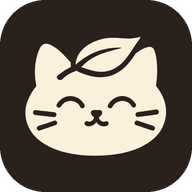
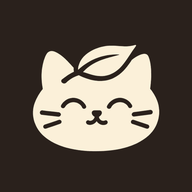
Chat en tiempo real, app instalable e ícono del gatito
- Canal en vivo (SSE) en /api/events: los mensajes, la bandeja y el
  contador se actualizan al instante, con aviso si estás en otra página
- El mensaje propio aparece de inmediato al enviarlo
- PWA: service worker, página sin conexión, accesos directos y aviso
  de instalación (Android e iPhone)
- Íconos con la cara del gatito a sangre completa en 120, 152, 167 y
  180 px para iOS, más 192, 512 y maskable para Android

Claude-Session: https://claude.ai/code/session_01Dpf6iEkBebjgidmTYjNqXF

diff --git a/client/src/pages/Messages.tsx b/client/src/pages/Messages.tsx
@@ -9,16 +9,36 @@ import { Avatar, Empty, Loading, useToast } from "@/components/ui";
 function Thread({ id }: { id: number }) {
   const toast = useToast();
   const utils = trpc.useUtils();
-  const q = trpc.chat.thread.useQuery({ id }, { refetchInterval: 5000, retry: false });
+  const q = trpc.chat.thread.useQuery({ id }, { refetchInterval: 45_000, retry: false });
   const [body, setBody] = useState("");
   const [offer, setOffer] = useState("");
   const [offering, setOffering] = useState(false);
   const end = useRef<HTMLDivElement>(null);
   const count = q.data?.messages.length ?? 0;
   useEffect(() => { end.current?.scrollIntoView({ block: "end" }); utils.auth.me.invalidate(); utils.chat.list.invalidate(); }, [count, id]);
+  // El mensaje aparece al instante; si el envío falla, se retira y vuelve al cuadro de texto
   const send = trpc.chat.send.useMutation({
-    onSuccess: () => { setBody(""); setOffer(""); setOffering(false); utils.chat.thread.invalidate({ id }); },
-    onError: (e) => toast(e.message, true),
+    onMutate: async (v) => {
+      await utils.chat.thread.cancel({ id });
+      const prev = utils.chat.thread.getData({ id });
+      if (prev) {
+        utils.chat.thread.setData({ id }, {
+          ...prev,
+          messages: [...prev.messages, {
+            id: -Date.now(), senderId: prev.me, body: v.body, offerCents: v.offer != null ? Math.round(v.offer * 100) : null, createdAt: new Date().toISOString(),
+            listingId: null, listingTitle: null, listingImages: null, listingPrice: null, listingDeal: null,
+          }],
+        });
+      }
+      setBody(""); setOffer(""); setOffering(false);
+      return { prev, text: v.body };
+    },
+    onError: (e, _v, ctx) => {
+      if (ctx?.prev) utils.chat.thread.setData({ id }, ctx.prev);
+      if (ctx) setBody(ctx.text);
+      toast(e.message, true);
+    },
+    onSettled: () => utils.chat.thread.invalidate({ id }),
   });
 
   if (q.isLoading) return <Loading />;
@@ -70,7 +90,7 @@ function Thread({ id }: { id: number }) {
           {!offering && <button type="button" className="btn btn-sm btn-yuzu shrink-0 !min-h-[2.875rem]" onClick={() => setOffering(true)}>Ofertar</button>}
           <textarea className="input !min-h-[2.875rem] !rounded-[1.4rem]" rows={1} placeholder="Escribe un mensaje" value={body} onChange={(e) => setBody(e.target.value)} maxLength={2000}
             onKeyDown={(e) => { if (e.key === "Enter" && !e.shiftKey && !("ontouchstart" in window)) { e.preventDefault(); e.currentTarget.form?.requestSubmit(); } }} aria-label="Mensaje" />
-          <button className="btn btn-ink shrink-0 !px-4" disabled={send.isPending || (!body.trim() && !offer)} aria-label="Enviar"><Send size={18} /></button>
+          <button className="btn btn-ink shrink-0 !px-4" disabled={!body.trim() && !offer} aria-label="Enviar"><Send size={18} /></button>
         </div>
       </form>
     </div>
@@ -79,7 +99,7 @@ function Thread({ id }: { id: number }) {
 
 export default function Messages({ id }: { id?: number }) {
   const { me, loading } = useMe();
-  const list = trpc.chat.list.useQuery(undefined, { enabled: Boolean(me), refetchInterval: 15000 });
+  const list = trpc.chat.list.useQuery(undefined, { enabled: Boolean(me), refetchInterval: 60_000 });
   if (loading) return <Loading />;
   if (!me) return <div className="wrap py-14"><Empty title="Entra para ver tus mensajes" action={<Link href="/entrar?volver=/mensajes" className="btn btn-ink">Entrar</Link>} /></div>;
 

diff --git a/client/src/components/InstallHint.tsx b/client/src/components/InstallHint.tsx
@@ -1,0 +1,52 @@
+import { useEffect, useState } from "react";
+import { Share, X } from "lucide-react";
+
+// Invitación a instalar Cosland como app. En Android abre el diálogo del navegador;
+// en iPhone explica el paso manual, porque Safari no ofrece un botón.
+const KEY = "cosland_install_hint";
+type InstallEvent = Event & { prompt: () => Promise<void>; userChoice: Promise<{ outcome: string }> };
+
+export default function InstallHint() {
+  const [event, setEvent] = useState<InstallEvent | null>(null);
+  const [ios, setIos] = useState(false);
+  const [show, setShow] = useState(false);
+
+  useEffect(() => {
+    const standalone = window.matchMedia("(display-mode: standalone)").matches || (navigator as { standalone?: boolean }).standalone === true;
+    let dismissed = false;
+    try { dismissed = Boolean(localStorage.getItem(KEY)); } catch { /* sin almacenamiento */ }
+    if (standalone || dismissed) return;
+
+    const onPrompt = (e: Event) => { e.preventDefault(); setEvent(e as InstallEvent); setShow(true); };
+    const onInstalled = () => setShow(false);
+    window.addEventListener("beforeinstallprompt", onPrompt);
+    window.addEventListener("appinstalled", onInstalled);
+
+    const isIos = /iphone|ipad|ipod/i.test(navigator.userAgent) && !/crios|fxios|edgios/i.test(navigator.userAgent);
+    const t = isIos ? setTimeout(() => { setIos(true); setShow(true); }, 8000) : undefined;
+    return () => { window.removeEventListener("beforeinstallprompt", onPrompt); window.removeEventListener("appinstalled", onInstalled); clearTimeout(t); };
+  }, []);
+
+  if (!show) return null;
+  const dismiss = () => { setShow(false); try { localStorage.setItem(KEY, "1"); } catch { /* no pasa nada */ } };
+  const install = async () => {
+    if (!event) return;
+    await event.prompt();
+    await event.userChoice.catch(() => null);
+    dismiss();
+  };
+
+  return (
+    <div className="pop fixed inset-x-3 bottom-24 md:bottom-6 md:left-auto md:right-6 md:w-96 z-40 panel p-3.5 flex items-center gap-3">
+      <img src="/icon-192.png" alt="" className="w-12 h-12 rounded-[0.9rem] shrink-0" />
+      <div className="min-w-0 flex-1 text-sm">
+        <p className="font-extrabold text-base leading-tight">Lleva Cosland en tu teléfono</p>
+        {ios
+          ? <p className="text-cocoa mt-0.5">Toca <Share size={14} className="inline -mt-1" aria-label="Compartir" /> y luego “Agregar a inicio”.</p>
+          : <p className="text-cocoa mt-0.5">Se abre como una app y el chat te queda a un toque.</p>}
+      </div>
+      {!ios && <button className="btn btn-ink btn-sm shrink-0" onClick={install}>Instalar</button>}
+      <button className="btn btn-ghost btn-sm !px-2 shrink-0" onClick={dismiss} aria-label="Cerrar"><X size={18} /></button>
+    </div>
+  );
+}

diff --git a/client/src/lib/hooks.ts b/client/src/lib/hooks.ts
@@ -1,9 +1,10 @@
+import { useEffect } from "react";
 import { useLocation } from "wouter";
 import { trpc } from "./trpc";
 import { useToast } from "@/components/ui";
 
 export function useMe() {
-  const q = trpc.auth.me.useQuery(undefined, { staleTime: 30_000, refetchInterval: 60_000 });
+  const q = trpc.auth.me.useQuery(undefined, { staleTime: 30_000, refetchInterval: 120_000 });
   return { me: q.data ?? null, loading: q.isLoading };
 }
 
@@ -31,4 +32,51 @@ export function useFavorites() {
       m.mutate({ listingId: id });
     },
   };
+}
+
+// Chat en vivo: una conexión abierta con el servidor que avisa apenas llega un mensaje
+export function useRealtime(userId: number | null) {
+  const utils = trpc.useUtils();
+  const toast = useToast();
+  useEffect(() => {
+    if (!userId || typeof EventSource === "undefined") return;
+    let es: EventSource | null = null;
+    let retry: ReturnType<typeof setTimeout> | undefined;
+    let stopped = false;
+    const refresh = (id?: number) => {
+      utils.chat.list.invalidate();
+      utils.auth.me.invalidate();
+      if (id) utils.chat.thread.invalidate({ id }); else utils.chat.thread.invalidate();
+    };
+    const connect = () => {
+      if (stopped) return;
+      es?.close();
+      es = new EventSource("/api/events");
+      let first = true;
+      es.onopen = () => { if (!first) refresh(); first = false; }; // al reconectar, se pone al día
+      es.addEventListener("chat", (e) => {
+        const m = JSON.parse((e as MessageEvent).data) as { conversationId: number; from: number; fromName: string };
+        refresh(m.conversationId);
+        const open = location.pathname === `/mensajes/${m.conversationId}` && document.visibilityState === "visible";
+        if (m.from !== userId && !open) toast(`Nuevo mensaje de ${m.fromName}`);
+      });
+      es.onerror = () => {
+        // El navegador reintenta solo; si la conexión quedó cerrada del todo, se abre otra
+        if (es?.readyState === EventSource.CLOSED) { clearTimeout(retry); retry = setTimeout(connect, 5000); }
+      };
+    };
+    const onVisible = () => {
+      if (document.visibilityState !== "visible") return;
+      refresh(); // el teléfono pausa la conexión en segundo plano
+      if (!es || es.readyState === EventSource.CLOSED) connect();
+    };
+    connect();
+    document.addEventListener("visibilitychange", onVisible);
+    window.addEventListener("online", onVisible);
+    return () => {
+      stopped = true; clearTimeout(retry); es?.close();
+      document.removeEventListener("visibilitychange", onVisible);
+      window.removeEventListener("online", onVisible);
+    };
+  }, [userId]);
 }

diff --git a/server/index.ts b/server/index.ts
@@ -12,6 +12,7 @@ import { createContext, userFromRequest } from "./trpc";
 import { db, runMigrations } from "./db";
 import { listings, shops, users } from "./schema";
 import { saveImage, UPLOAD_DIR, storageMode } from "./storage";
+import { subscribe } from "./realtime";
 import { formatPrice } from "../shared/catalog";
 
 const app = express();
@@ -41,6 +42,19 @@ app.post("/api/upload", uploadLimiter, upload.single("file"), async (req, res) =
 });
 app.use("/uploads", express.static(UPLOAD_DIR, { maxAge: "365d", immutable: true }));
 
+// Canal en vivo para el chat: la conexión queda abierta y el servidor empuja los avisos
+app.get("/api/events", async (req, res) => {
+  const user = await userFromRequest(req);
+  if (!user) return res.status(401).end();
+  res.writeHead(200, {
+    "Content-Type": "text/event-stream", "Cache-Control": "no-cache, no-transform", Connection: "keep-alive", "X-Accel-Buffering": "no",
+  });
+  res.write("retry: 3000\n\n");
+  const off = subscribe(user.id, res);
+  const beat = setInterval(() => res.write(": ping\n\n"), 25_000);
+  req.on("close", () => { clearInterval(beat); off(); });
+});
+
 app.use("/api/trpc", express.json({ limit: "200kb" }), createExpressMiddleware({ router: appRouter, createContext }));
 
 /* ── Cliente (producción): archivos estáticos + vista previa al compartir enlaces ── */
@@ -64,6 +78,7 @@ if (fs.existsSync(path.join(publicDir, "index.html"))) {
   };
   const base = { title: "Cosland: compra y vende cosplay, figuras y más", description: "El mercado de la comunidad cosplayer, otaku y geek. Abre tu vitrina y vende lo que ya no usas." };
 
+  app.get("/sw.js", (_req, res) => res.set("Cache-Control", "no-cache").sendFile(path.join(publicDir, "sw.js")));
   app.use(express.static(publicDir, { index: false, maxAge: "1h" }));
 
   app.get("/p/:id", async (req, res, next) => {

diff --git a/client/public/sw.js b/client/public/sw.js
@@ -1,0 +1,47 @@
+// Service worker de Cosland: hace la web instalable y deja una página útil sin conexión.
+// La API y el chat en vivo nunca pasan por caché.
+const CACHE = "cosland-v1";
+const SHELL = ["/offline.html", "/gato-ink.png", "/icon-192.png"];
+const MAX_ENTRIES = 120;
+
+self.addEventListener("install", (e) => {
+  e.waitUntil(caches.open(CACHE).then((c) => c.addAll(SHELL)).then(() => self.skipWaiting()));
+});
+
+self.addEventListener("activate", (e) => {
+  e.waitUntil(
+    caches.keys().then((keys) => Promise.all(keys.filter((k) => k !== CACHE).map((k) => caches.delete(k)))).then(() => self.clients.claim()),
+  );
+});
+
+async function trim(cache) {
+  const keys = await cache.keys();
+  for (let i = 0; i < keys.length - MAX_ENTRIES; i++) await cache.delete(keys[i]);
+}
+
+self.addEventListener("fetch", (e) => {
+  const req = e.request;
+  if (req.method !== "GET") return;
+  const url = new URL(req.url);
+  if (url.origin !== location.origin || url.pathname.startsWith("/api/") || url.pathname === "/sw.js") return;
+
+  // Páginas: siempre la versión nueva; sin conexión, la página de aviso
+  if (req.mode === "navigate") {
+    e.respondWith(fetch(req).catch(() => caches.match("/offline.html")));
+    return;
+  }
+
+  // Archivos con nombre único (JS, CSS, fuentes, fotos subidas): primero la caché
+  const immutable = url.pathname.startsWith("/assets/") || url.pathname.startsWith("/uploads/") || url.pathname.startsWith("/logo/");
+  if (immutable) {
+    e.respondWith(
+      caches.open(CACHE).then(async (cache) => {
+        const hit = await cache.match(req);
+        if (hit) return hit;
+        const res = await fetch(req);
+        if (res.ok) { cache.put(req, res.clone()); trim(cache); }
+        return res;
+      }),
+    );
+  }
+});

diff --git a/server/routers.ts b/server/routers.ts
@@ -3,6 +3,7 @@ import bcrypt from "bcryptjs";
 import { TRPCError } from "@trpc/server";
 import { and, or, eq, ne, like, desc, asc, sql, inArray, gte, lte, type SQL } from "drizzle-orm";
 import { db } from "./db";
+import { publish } from "./realtime";
 import {
   users, shops, listings, favorites, follows, conversations, messages, reviews, wanted, reports,
 } from "./schema";
@@ -339,6 +340,15 @@ async function postMessage(convId: number, senderId: number, fromSeller: boolean
     lastBody: body.slice(0, 200), lastAt: new Date(),
     ...(fromSeller ? { buyerUnread: sql`${conversations.buyerUnread} + 1` } : { sellerUnread: sql`${conversations.sellerUnread} + 1` }),
   }).where(eq(conversations.id, convId));
+  // Aviso en vivo a las dos personas de la conversación
+  const [who] = await db.select({ buyerId: conversations.buyerId, ownerId: shops.userId, shopName: shops.name, buyerName: users.name })
+    .from(conversations).innerJoin(shops, eq(shops.id, conversations.shopId)).innerJoin(users, eq(users.id, conversations.buyerId))
+    .where(eq(conversations.id, convId)).limit(1);
+  if (who) {
+    publish([who.buyerId, who.ownerId], "chat", {
+      conversationId: convId, from: senderId, fromName: fromSeller ? who.shopName : who.buyerName, preview: body.slice(0, 80),
+    });
+  }
 }
 
 async function openConversation(buyerId: number, shopId: number) {

diff --git a/client/src/components/Layout.tsx b/client/src/components/Layout.tsx
@@ -2,7 +2,8 @@ import { useState, type FormEvent, type ReactNode } from "react";
 import { Link, useLocation } from "wouter";
 import { Compass, Heart, Home as HomeIcon, LogOut, MessageCircle, Plus, Search, Shield, Store, User } from "lucide-react";
 import { trpc } from "@/lib/trpc";
-import { useMe } from "@/lib/hooks";
+import { useMe, useRealtime } from "@/lib/hooks";
+import InstallHint from "./InstallHint";
 import { Avatar } from "./ui";
 
 function SearchBox({ className = "" }: { className?: string }) {
@@ -49,6 +50,7 @@ export default function Layout({ children }: { children: ReactNode }) {
   const [path] = useLocation();
   const { me } = useMe();
   const inChat = path.startsWith("/mensajes/");
+  useRealtime(me?.id ?? null);
   const navLink = (href: string, label: string) => (
     <Link href={href} className={`px-3.5 py-2 rounded-full font-bold ${path.startsWith(href) ? "bg-oat" : "hover:bg-oat"}`}>{label}</Link>
   );
@@ -115,6 +117,8 @@ export default function Layout({ children }: { children: ReactNode }) {
           </div>
         </footer>
       )}
+
+      {!inChat && <InstallHint />}
 
       {/* Barra inferior en el teléfono */}
       <nav className={`md:hidden fixed bottom-0 inset-x-0 z-30 bg-paper border-t-[1.5px] border-ink items-end pb-[env(safe-area-inset-bottom)] ${inChat ? "hidden" : "flex"}`} aria-label="Navegación">

diff --git a/client/public/offline.html b/client/public/offline.html
@@ -1,0 +1,25 @@
+<!doctype html>
+<html lang="es">
+  <head>
+    <meta charset="UTF-8" />
+    <meta name="viewport" content="width=device-width, initial-scale=1, viewport-fit=cover" />
+    <meta name="theme-color" content="#fbf1dc" />
+    <title>Sin conexión | Cosland</title>
+    <style>
+      body { margin: 0; min-height: 100dvh; display: grid; place-items: center; background: #fbf1dc; color: #2a211c;
+        font-family: ui-rounded, "Hiragino Maru Gothic ProN", system-ui, sans-serif; text-align: center; padding: 1.5rem; }
+      img { width: 7rem; }
+      h1 { font-size: 1.75rem; margin: 1.25rem 0 0.5rem; }
+      p { color: #6b5a4e; max-width: 22rem; margin: 0 auto 1.5rem; line-height: 1.5; }
+      button { font: inherit; font-weight: 700; padding: 0.8rem 1.6rem; border-radius: 999px; border: 1.5px solid #2a211c; background: #2a211c; color: #fbf1dc; cursor: pointer; }
+    </style>
+  </head>
+  <body>
+    <main>
+      <img src="/gato-ink.png" alt="" />
+      <h1>Estás sin conexión</h1>
+      <p>Revisa tu internet y vuelve a intentarlo. Tus publicaciones y mensajes siguen a salvo.</p>
+      <button onclick="location.reload()">Reintentar</button>
+    </main>
+  </body>
+</html>

diff --git a/client/index.html b/client/index.html
@@ -5,7 +5,15 @@
     <meta name="viewport" content="width=device-width, initial-scale=1, viewport-fit=cover" />
     <meta name="theme-color" content="#FBF1DC" />
     <link rel="icon" type="image/png" href="/favicon.png" />
-    <link rel="apple-touch-icon" href="/icon-192.png" />
+    <link rel="apple-touch-icon" href="/apple-touch-icon.png" />
+    <link rel="apple-touch-icon" sizes="120x120" href="/apple-touch-icon-120.png" />
+    <link rel="apple-touch-icon" sizes="152x152" href="/apple-touch-icon-152.png" />
+    <link rel="apple-touch-icon" sizes="167x167" href="/apple-touch-icon-167.png" />
+    <link rel="apple-touch-icon" sizes="180x180" href="/apple-touch-icon-180.png" />
+    <meta name="mobile-web-app-capable" content="yes" />
+    <meta name="apple-mobile-web-app-capable" content="yes" />
+    <meta name="apple-mobile-web-app-title" content="Cosland" />
+    <meta name="apple-mobile-web-app-status-bar-style" content="default" />
     <link rel="manifest" href="/manifest.webmanifest" />
     <!--meta-->
     <title>Cosland: compra y vende cosplay, figuras y más</title>

diff --git a/server/realtime.ts b/server/realtime.ts
@@ -1,0 +1,28 @@
+import type { Response } from "express";
+
+// Canal en vivo (Server-Sent Events): cada pestaña abierta mantiene una conexión
+// y el servidor le empuja los avisos al instante. Vive en memoria del proceso;
+// si algún día se corre más de una instancia, hay que pasar esto por Redis.
+const streams = new Map<number, Set<Response>>();
+const MAX_PER_USER = 6;
+
+export function subscribe(userId: number, res: Response) {
+  let set = streams.get(userId);
+  if (!set) streams.set(userId, (set = new Set()));
+  if (set.size >= MAX_PER_USER) {
+    const oldest = set.values().next().value;
+    if (oldest) { set.delete(oldest); oldest.end(); }
+  }
+  set.add(res);
+  return () => {
+    set!.delete(res);
+    if (!set!.size) streams.delete(userId);
+  };
+}
+
+export function publish(userIds: number[], event: string, data: unknown) {
+  const payload = `event: ${event}\ndata: ${JSON.stringify(data)}\n\n`;
+  for (const id of new Set(userIds)) {
+    streams.get(id)?.forEach((res) => { try { res.write(payload); } catch { /* conexión cerrada */ } });
+  }
+}

diff --git a/client/src/main.tsx b/client/src/main.tsx
@@ -20,3 +20,8 @@ function Root() {
 }
 
 createRoot(document.getElementById("root")!).render(<StrictMode><Root /></StrictMode>);
+
+// App instalable: el service worker solo se registra en producción
+if (import.meta.env.PROD && "serviceWorker" in navigator) {
+  window.addEventListener("load", () => { navigator.serviceWorker.register("/sw.js").catch(() => {}); });
+}
